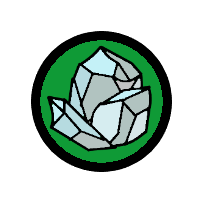
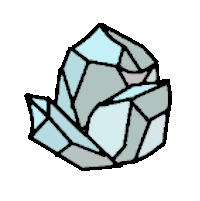
Replaced all duplicate commodity images with generated

diff --git a/modules/util/actor_utility.py b/modules/util/actor_utility.py
@@ -431,28 +431,23 @@ def generate_resource_icon(tile):
     Output:
         string/list: Returns string or list image id for tile's resource icon
     '''
-    small = False
-    for building_type in constants.building_types:
-        if tile.cell.has_building(building_type): #if any building present - villages are buildings but not a building type
-            small = True
-
     if tile.cell.resource == 'natives':
         attached_village = tile.cell.get_building('village')
         if attached_village.aggressiveness <= 3:
-            aggressiveness_color = (15, 154, 54)
+            aggressiveness_color = constants.color_dict['green_icon']
         elif attached_village.aggressiveness <= 6:
-            aggressiveness_color = (255, 242, 0)
+            aggressiveness_color = constants.color_dict['yellow_icon']
         else:
-            aggressiveness_color = (231, 0, 46)
+            aggressiveness_color = constants.color_dict['red_icon']
         population_key = str((attached_village.population + 2) // 3) # 0 for 0, 1 for 1-3, 2 for 4-6, 3 for 7-9
-        image_id = [{'image_id': 'scenery/resources/misc/circle.png', 'green_screen': aggressiveness_color}, {'image_id': 'scenery/resources/natives/' + population_key + '.png'}]
-
+        image_id = [{'image_id': 'misc/circle.png', 'green_screen': aggressiveness_color, 'size': 0.75}, {'image_id': 'scenery/resources/natives/' + population_key + '.png'}]
     else:
-        image_id = [{'image_id': 'scenery/resources/' + tile.cell.resource + '.png'}]
+        image_id = [{'image_id': 'misc/green_circle.png', 'size': 0.75}, {'image_id': 'scenery/resources/' + tile.cell.resource + '.png', 'size': 0.75}]
 
-    if small:
-        for current_image in image_id: # Make each component of image smaller and shift to bottom left corner
-            current_image.update({'size': 0.5, 'x_offset': -0.33, 'y_offset': -0.33})
+    if bool(tile.cell.get_buildings()): # Make small icon if tile has any buildings
+        for current_image in image_id: # To make small icon, make each component of image smaller and shift to bottom left corner
+            current_image.update({'x_offset': -0.33, 'y_offset': -0.33})
+            current_image['size'] = current_image.get('size', 1.0) * 0.45
     return(image_id)
 
 def get_image_variants(base_path, keyword = 'default'):

diff --git a/modules/setup.py b/modules/setup.py
@@ -1348,7 +1348,7 @@ def inventory_interface():
     }
     for current_index in range(len(constants.commodity_types)): #commodity prices in Europe
         input_dict['coordinates'] = scaling.scale_coordinates(commodity_prices_x - 35, commodity_prices_y + commodity_prices_height - 65 - (30 * current_index))
-        input_dict['image_id'] = 'scenery/resources/large/' + constants.commodity_types[current_index] + '.png'
+        input_dict['image_id'] = ['misc/green_circle.png', 'scenery/resources/' + constants.commodity_types[current_index] + '.png'] #'scenery/resources/large/' + constants.commodity_types[current_index] + '.png'
         input_dict['commodity'] = constants.commodity_types[current_index]
         new_commodity_button = constants.actor_creation_manager.create_interface_element(input_dict)
 
@@ -1357,7 +1357,7 @@ def inventory_interface():
         'height': scaling.scale_height(30),
         'init_type': 'ordered collection',
         'parent_collection': status.mob_tabbed_collection,
-        'member_config': {'tabbed': True, 'button_image_id': 'scenery/resources/buttons/consumer goods.png', 'identifier': 'inventory'},
+        'member_config': {'tabbed': True, 'button_image_id': ['buttons/default_button_alt2.png', {'image_id': 'misc/green_circle.png', 'size': 0.75}, {'image_id': 'scenery/resources/consumer goods.png', 'size': 0.75}], 'identifier': 'inventory'},
         'description': 'unit inventory panel'
     })
 
@@ -1449,7 +1449,7 @@ def inventory_interface():
         'height': scaling.scale_height(30),
         'init_type': 'ordered collection',
         'parent_collection': status.tile_tabbed_collection,
-        'member_config': {'tabbed': True, 'button_image_id': 'scenery/resources/buttons/consumer goods.png'},
+        'member_config': {'tabbed': True, 'button_image_id': ['buttons/default_button_alt2.png', {'image_id': 'misc/green_circle.png', 'size': 0.75}, {'image_id': 'scenery/resources/consumer goods.png', 'size': 0.75}]},
         'description': 'tile inventory panel'
     })
 

diff --git a/modules/action_types/construction.py b/modules/action_types/construction.py
@@ -53,7 +53,14 @@ class construction(action.action):
         '''
         initial_input_dict = super().button_setup(initial_input_dict)
         if self.building_type == 'resource':
-            initial_input_dict['image_id'] = constants.resource_building_button_dict[self.attached_resource]
+            displayed_resource = self.attached_resource
+            if displayed_resource == 'none':
+                displayed_resource = 'consumer goods'
+            initial_input_dict['image_id'] = [
+                'buttons/default_button_alt2.png',
+                {'image_id': 'scenery/resources/' + displayed_resource + '.png'},
+                {'image_id': 'scenery/resources/plus.png', 'size': 0.5, 'x_offset': 0.3, 'y_offset': 0.2}
+            ]
         elif self.building_type == 'infrastructure':
             initial_input_dict['image_id'] = 'buildings/buttons/road.png'
         elif self.building_type == 'train':
@@ -231,7 +238,14 @@ class construction(action.action):
                 else:
                     self.attached_resource = 'none'
                     self.building_name = 'resource production facility'
-                self.button.image.set_image(constants.resource_building_button_dict[self.attached_resource])
+                displayed_resource = self.attached_resource
+                if displayed_resource == 'none':
+                    displayed_resource = 'consumer goods'
+                self.button.image.set_image([
+                    'buttons/default_button_alt2.png',
+                    {'image_id': 'scenery/resources/' + displayed_resource + '.png'},
+                    {'image_id': 'scenery/resources/plus.png', 'size': 0.5, 'x_offset': 0.3, 'y_offset': 0.2}
+                ])
 
         elif self.building_type == 'infrastructure':
             cell = status.displayed_mob.images[0].current_cell

diff --git a/modules/action_types/trade.py b/modules/action_types/trade.py
@@ -113,8 +113,10 @@ class trade(action.action):
         if subject in ['success', 'critical_success', 'failure', 'critical_failure']:
             return_list.append(
                 action_utility.generate_free_image_input_dict(
-                    ['scenery/resources/consumer goods.png',
-                     {'image_id': 'scenery/resources/minus.png', 'size': 0.5, 'x_offset': 0.3, 'y_offset': 0.2},
+                    [
+                        {'image_id': 'misc/green_circle.png', 'size': 0.75},
+                        {'image_id': 'scenery/resources/consumer goods.png', 'size': 0.75},
+                        {'image_id': 'scenery/resources/minus.png', 'size': 0.5, 'x_offset': 0.3, 'y_offset': 0.2},
                     ],
                     200,
                     override_input_dict={'member_config': {'order_x_offset': scaling.scale_width(-75), 'second_dimension_alignment': 'left', 'centered': True}}
@@ -122,8 +124,10 @@ class trade(action.action):
         if subject in ['success', 'critical_success']:
             return_list.append(
                 action_utility.generate_free_image_input_dict(
-                    ['scenery/resources/' + self.commodity + '.png',
-                     {'image_id': 'scenery/resources/plus.png', 'size': 0.5, 'x_offset': 0.3, 'y_offset': 0.2},
+                    [
+                        {'image_id': 'misc/green_circle.png', 'size': 0.75},
+                        {'image_id': 'scenery/resources/' + self.commodity + '.png', 'size': 0.75},
+                        {'image_id': 'scenery/resources/plus.png', 'size': 0.5, 'x_offset': 0.3, 'y_offset': 0.2},
                     ],
                     200,
                     override_input_dict={'member_config': {'order_x_offset': scaling.scale_width(-75), 'second_dimension_alignment': 'leftmost', 'centered': True}}

diff --git a/modules/action_types/advertising_campaign.py b/modules/action_types/advertising_campaign.py
@@ -122,16 +122,20 @@ class advertising_campaign(action.campaign):
         if subject in ['success', 'critical_success']:
             return_list.append(
                 action_utility.generate_free_image_input_dict(
-                    ['scenery/resources/' + self.target_unadvertised_commodity + '.png',
-                     {'image_id': 'scenery/resources/minus.png', 'size': 0.5, 'x_offset': 0.3, 'y_offset': 0.2},
+                    [
+                        {'image_id': 'misc/green_circle.png', 'size': 0.75},
+                        {'image_id': 'scenery/resources/' + self.target_unadvertised_commodity + '.png', 'size': 0.75},
+                        {'image_id': 'scenery/resources/minus.png', 'size': 0.5, 'x_offset': 0.3, 'y_offset': 0.2},
                     ],
                     200,
                     override_input_dict={'member_config': {'order_x_offset': scaling.scale_width(-75), 'second_dimension_alignment': 'left', 'centered': True}}
             ))
             return_list.append(
                 action_utility.generate_free_image_input_dict(
-                    ['scenery/resources/' + self.target_commodity + '.png',
-                     {'image_id': 'scenery/resources/plus.png', 'size': 0.5, 'x_offset': 0.3, 'y_offset': 0.2},
+                    [
+                        {'image_id': 'misc/green_circle.png', 'size': 0.75},
+                        {'image_id': 'scenery/resources/' + self.target_commodity + '.png', 'size': 0.75},
+                        {'image_id': 'scenery/resources/plus.png', 'size': 0.5, 'x_offset': 0.3, 'y_offset': 0.2},
                     ],
                     200,
                     override_input_dict={'member_config': {'order_x_offset': scaling.scale_width(-75), 'second_dimension_alignment': 'leftmost', 'centered': True}}

diff --git a/modules/constants/constants.py b/modules/constants/constants.py
@@ -178,8 +178,6 @@ color_dict: Dict[str, tuple[int, int, int]] = {
     'bright green': (0, 255, 0),
     'green': (0, 200, 0),
     'dark green': (0, 150, 0),
-    'green': (0, 200, 0),
-    'dark green': (0, 150, 0),
     'bright blue': (0, 0, 255),
     'blue': (0, 0, 200),
     'dark blue': (0, 0, 150),
@@ -187,7 +185,10 @@ color_dict: Dict[str, tuple[int, int, int]] = {
     'brown': (85, 53, 22),
     'blonde': (188, 175, 123),
     'purple': (127, 0, 170),
-    'transparent': (1, 1, 1)
+    'transparent': (1, 1, 1),
+    'green_icon': (15, 154, 54),
+    'yellow_icon': (255, 242, 0),
+    'red_icon': (231, 0, 46)
 }
 
 green_screen_colors: List[tuple[int, int, int]] = [
@@ -263,18 +264,6 @@ resource_building_dict: Dict[str, str] = {
     'iron': 'buildings/mine.png',
     'ivory': 'buildings/camp.png',
     'rubber': 'buildings/plantation.png',
-}
-resource_building_button_dict: Dict[str, str] = {
-    'coffee': 'scenery/resources/production/coffee.png',
-    'copper': 'scenery/resources/production/copper.png',
-    'diamond': 'scenery/resources/production/diamond.png',
-    'exotic wood': 'scenery/resources/production/exotic wood.png',
-    'fruit': 'scenery/resources/production/fruit.png',
-    'gold': 'scenery/resources/production/gold.png',
-    'iron': 'scenery/resources/production/iron.png',
-    'ivory': 'scenery/resources/production/ivory.png',
-    'rubber': 'scenery/resources/production/rubber.png',
-    'none': 'scenery/resources/production/none.png',
 }
 
 weighted_backgrounds: List[str] = []

diff --git a/modules/interface_types/inventory_interface.py b/modules/interface_types/inventory_interface.py
@@ -163,9 +163,9 @@ class item_icon(button):
                 self.current_item = new_actor.check_inventory(display_index)
                 if self.current_item:
                     if new_actor.inventory_capacity >= display_index + 1 or new_actor.infinite_inventory_capacity: # If item in capacity
-                        self.image.set_image(utility.combine(self.default_image_id, 'scenery/resources/large/' + self.current_item + '.png'))
+                        self.image.set_image(utility.combine(self.default_image_id, 'misc/green_circle.png', 'scenery/resources/' + self.current_item + '.png'))
                     else: # If item over capacity
-                        self.image.set_image(['scenery/resources/large/' + self.current_item + '.png', 'misc/warning_icon.png'])
+                        self.image.set_image(['misc/green_circle.png', 'scenery/resources/' + self.current_item + '.png', 'misc/warning_icon.png'])
                 else:
                     self.image.set_image(self.default_image_id)
                     if self.icon_index == 0 and new_actor.infinite_inventory_capacity and self.parent_collection.inventory_page > 0:

diff --git a/modules/interface_types/europe_transactions.py b/modules/interface_types/europe_transactions.py
@@ -153,7 +153,11 @@ class buy_commodity_button(button):
         possible_commodity_types = constants.commodity_types
         self.commodity_type = input_dict['commodity_type']
         if self.commodity_type in possible_commodity_types:
-            input_dict['image_id'] = ['buttons/default_button_alt.png', 'scenery/resources/' + self.commodity_type + '.png']
+            input_dict['image_id'] = [
+                'buttons/default_button_alt.png',
+                {'image_id': 'misc/green_circle.png', 'size': 0.75},
+                {'image_id': 'scenery/resources/' + self.commodity_type + '.png', 'size': 0.75}
+            ]
         else:
             input_dict['image_id'] = 'buttons/default_button.png'
         input_dict['button_type'] = 'buy commodity'

diff --git a/modules/actor_types/mob_types/pmobs.py b/modules/actor_types/mob_types/pmobs.py
@@ -723,6 +723,7 @@ class pmob(mob):
                     vehicle.change_inventory(current_commodity, 1)
                 else:
                     self.images[0].current_cell.tile.change_inventory(current_commodity, 1)
+            self.inventory = {}
         self.hide_images()
         self.remove_from_turn_queue()
         vehicle.contained_mobs.append(self)
